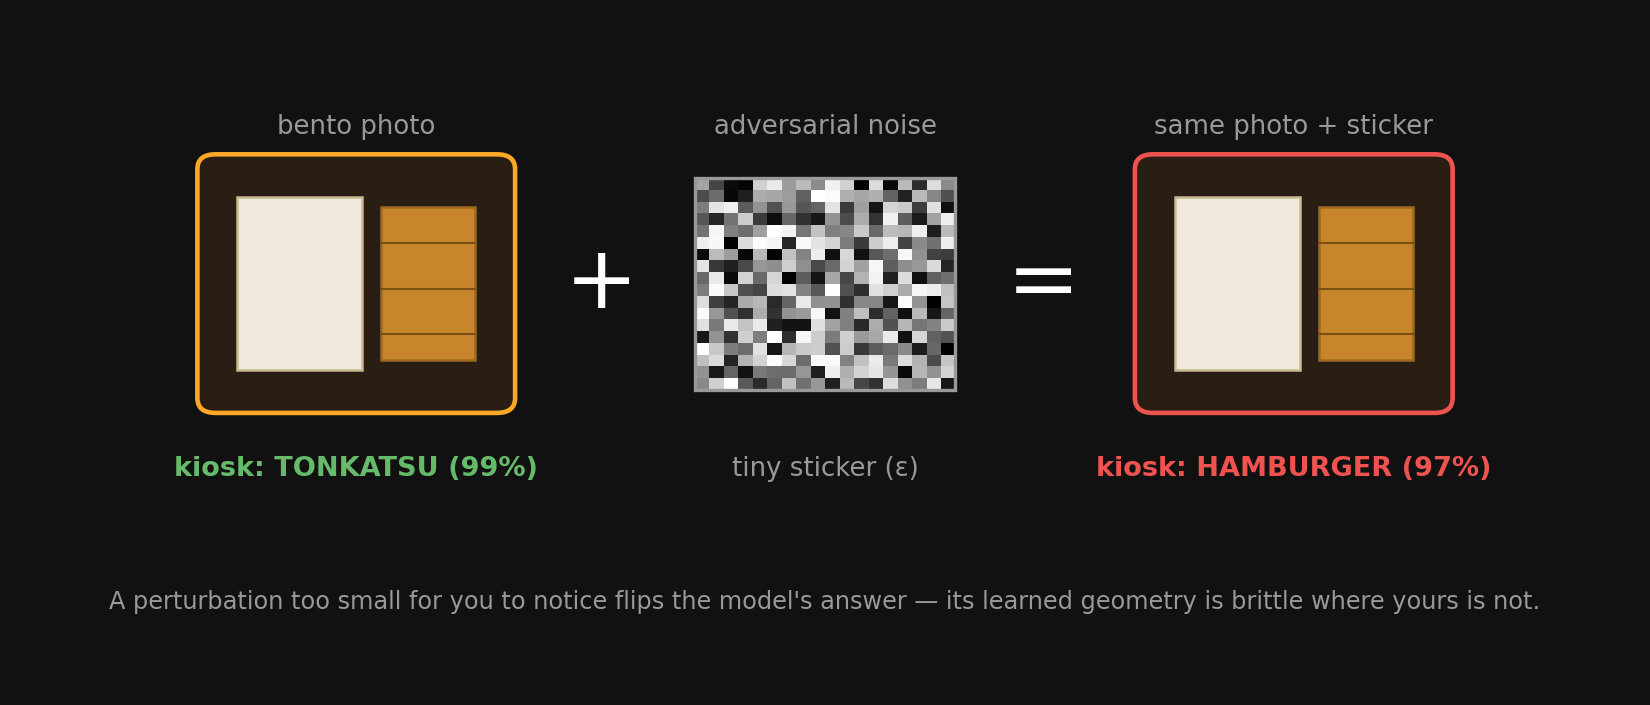
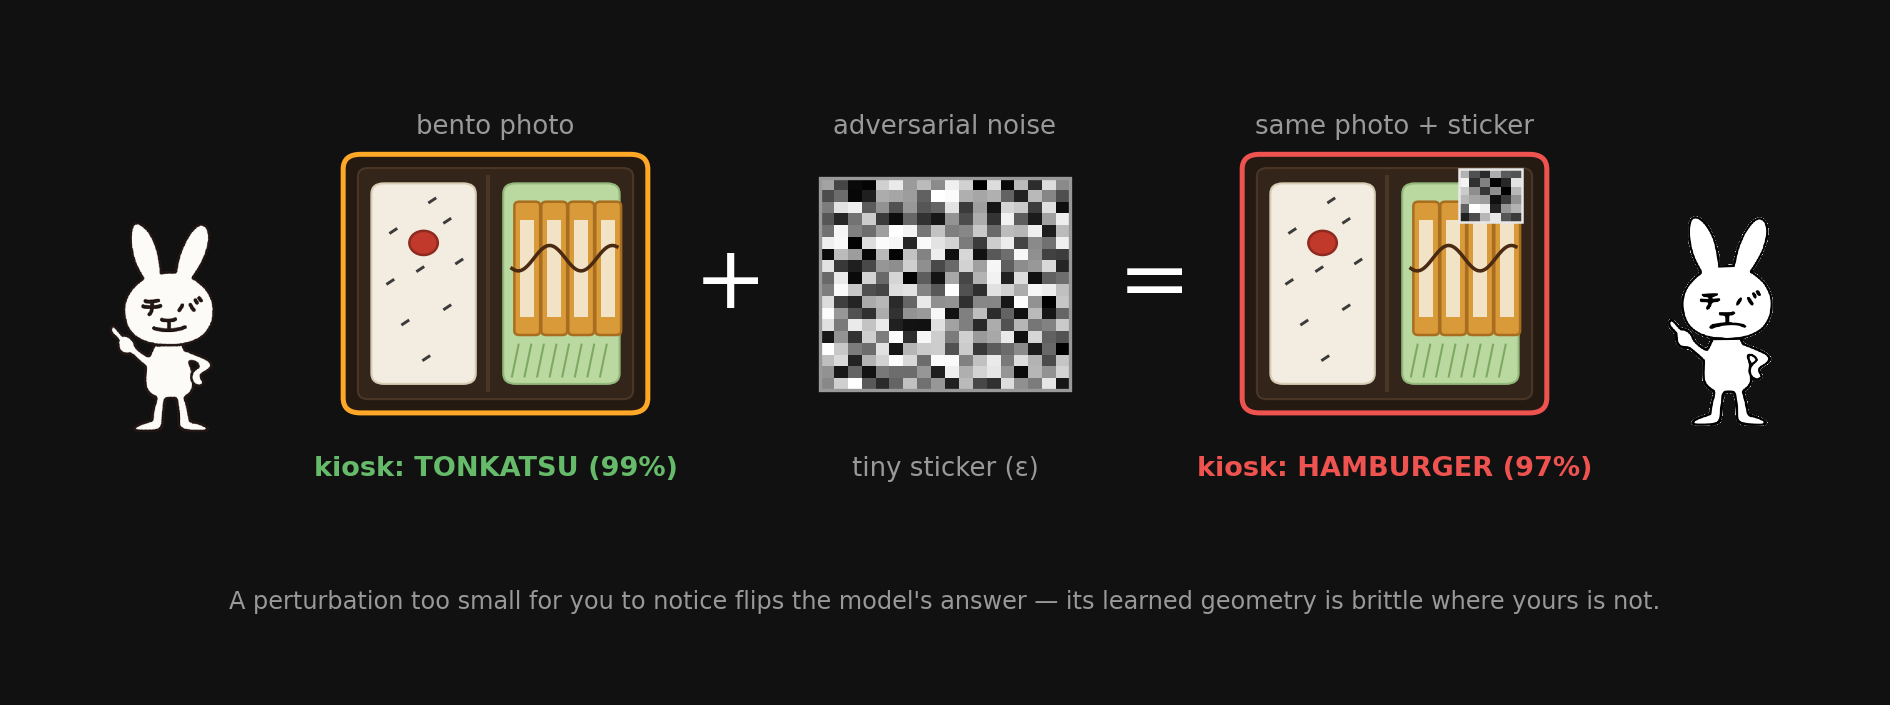
autosync beancupter 2026-07-16T21:30:02+09:00

diff --git a/course/week12_ethics_adversarial/make_figures.py b/course/week12_ethics_adversarial/make_figures.py
@@ -68,12 +68,13 @@ def fig_semester_map():
     nodes=[
         ("Tenenbaum 1999",        0.40,2.66, ACC, 0.56,2.66,"left","center", False,None),
         ("Tenenbaum & Xu 2000",   0.40,2.26, ACC, 0.56,2.26,"left","center", True,"presented"),
-        ("Tenenbaum et al. 2011", 1.85,2.62, GRN, 2.00,2.62,"left","center", False,None),
+        ("Tenenbaum et al. 2011", 1.85,2.62, GRN, 1.85,2.77,"center","bottom", False,None),
         ("Austerweil et al. 2015",1.05,2.90, GRN, 1.05,3.05,"center","bottom", False,None),
-        ("Baker et al. 2007",     2.30,2.18, ORA, 2.45,2.18,"left","center", False,None),
-        ("Daw et al. 2005",       2.30,1.80, ORA, 2.45,1.80,"left","center", False,None),
-        ("Abbott et al. 2012",    2.30,1.42, ORA, 2.45,1.42,"left","center", False,None),
-        ("Sanborn & Griffiths 2008",2.30,1.05, ORA, 2.45,1.05,"left","center", False,None),
+        ("Baker et al. 2007",     2.30,2.58, ORA, 2.45,2.58,"left","center", False,None),
+        ("Sanborn & Griffiths 2008",2.30,2.28, ORA, 2.45,2.28,"left","center", False,None),
+        ("Abbott et al. 2012",    2.30,2.04, ORA, 2.45,2.04,"left","center", False,None),
+        ("Vul et al. 2009",       2.30,1.55, ORA, 2.45,1.55,"left","center", False,None),
+        ("Daw et al. 2005",       2.30,1.15, ORA, 2.45,1.15,"left","center", False,None),
         ("Lake et al. 2017",      3.55,2.86, PUR, 3.68,2.86,"left","center", False,None),
         ("Caliskan et al. 2017",  3.55,2.50, PUR, 3.68,2.50,"left","center", False,None),
         ("Pereira et al. 2018",   3.55,0.55, PUR, 3.68,0.55,"left","center", False,None),
@@ -174,31 +175,81 @@ def fig_fairness_impossibility():
 
 # ---------------------------------------------------------------- Fig 4: adversarial example
 def _bento(ax,x0,y0,w,h,ec=ORA):
-    """A simple bento icon (rice + tonkatsu) inside a lacquer box."""
+    """A tonkatsu bento that reads as one: lacquer box, rice mound with sesame
+    + umeboshi on the left; shredded-cabbage bed with a fanned, breaded,
+    sauce-drizzled cutlet on the right (2026-07-16 remake, was two flat
+    rectangles)."""
+    from matplotlib.patches import Ellipse
+    # lacquer box + inner tray
     ax.add_patch(FancyBboxPatch((x0,y0),w,h,boxstyle="round,pad=0.02,rounding_size=0.14",
-                 fc="#2a1d14",ec=ec,lw=2.2,zorder=3))
-    # rice compartment (left)
-    ax.add_patch(Rectangle((x0+0.12*w,y0+0.16*h),0.40*w,0.68*h,fc="#efe9dc",
-                 ec="#cbb88f",lw=1.2,zorder=4))
-    # tonkatsu cutlet (right)
-    ax.add_patch(Rectangle((x0+0.58*w,y0+0.20*h),0.30*w,0.60*h,fc="#c8862c",
-                 ec="#9c6a20",lw=1.2,zorder=4))
-    for k in range(3):
-        yy=y0+0.30*h+k*0.18*h
-        ax.plot([x0+0.58*w,x0+0.88*w],[yy,yy],color="#7a5015",lw=1.0,zorder=5)
+                 fc="#241a12",ec=ec,lw=2.4,zorder=3))
+    ax.add_patch(FancyBboxPatch((x0+0.045*w,y0+0.05*h),0.91*w,0.90*h,
+                 boxstyle="round,pad=0.01,rounding_size=0.08",
+                 fc="#33251a",ec="#4a3626",lw=1.0,zorder=3.5))
+    ax.plot([x0+0.475*w]*2,[y0+0.08*h,y0+0.92*h],color="#4a3626",lw=2.0,zorder=4)
+    # rice mound (left) + sesame + umeboshi
+    ax.add_patch(FancyBboxPatch((x0+0.09*w,y0+0.11*h),0.34*w,0.78*h,
+                 boxstyle="round,pad=0.01,rounding_size=0.10",
+                 fc="#f2ede0",ec="#d8cdb4",lw=1.0,zorder=4))
+    for sx,sy in [(0.15,0.70),(0.24,0.55),(0.33,0.74),(0.19,0.34),(0.33,0.40),
+                  (0.26,0.20),(0.14,0.50),(0.37,0.58),(0.28,0.82)]:
+        ax.plot([x0+sx*w,x0+(sx+0.018)*w],[y0+sy*h,y0+(sy+0.014)*h],
+                color="#3b3b3b",lw=1.4,zorder=5)
+    ax.add_patch(Ellipse((x0+0.26*w,y0+0.66*h),0.095*w,0.095*h,
+                 fc="#c0392b",ec="#8e2a20",lw=1.2,zorder=5))
+    # cabbage bed (right)
+    ax.add_patch(FancyBboxPatch((x0+0.53*w,y0+0.11*h),0.38*w,0.78*h,
+                 boxstyle="round,pad=0.01,rounding_size=0.10",
+                 fc="#b9d9a0",ec="#93b87c",lw=1.0,zorder=4))
+    for k in range(8):
+        xx=x0+(0.555+0.042*k)*w
+        ax.plot([xx,xx+0.022*w],[y0+0.135*h,y0+0.26*h],color="#7fa963",lw=1.0,zorder=4.5)
+    # tonkatsu: four fanned slices, golden breading around a pale pork center
+    sw=0.082*w
+    for k in range(4):
+        sx=x0+(0.565+k*0.090)*w
+        ax.add_patch(FancyBboxPatch((sx,y0+0.30*h),sw,0.52*h,
+                     boxstyle="round,pad=0.005,rounding_size=0.04",
+                     fc="#d99a3a",ec="#a86d1f",lw=1.2,zorder=5))
+        ax.add_patch(Rectangle((sx+0.22*sw,y0+0.37*h),0.56*sw,0.38*h,
+                     fc="#f3e3c6",ec="none",zorder=5.5))
+    # sauce drizzle across the slices
+    xs=np.linspace(x0+0.555*w,x0+0.905*w,60)
+    ax.plot(xs,y0+0.60*h+0.05*h*np.sin(30*(xs-x0)/w),color="#4a2a12",lw=1.7,zorder=6)
+
+def _mascot(path):
+    """Load a Chibany PNG and make the WHITE SURROUND transparent (flood fill
+    from the corners) while keeping the white body — for placement on the
+    dark slide background."""
+    from PIL import Image, ImageDraw
+    im=Image.open(path).convert("RGBA")
+    for corner in [(0,0),(im.width-1,0),(0,im.height-1),(im.width-1,im.height-1)]:
+        try: ImageDraw.floodfill(im,corner,(0,0,0,0),thresh=60)
+        except Exception: pass
+    return np.asarray(im)
 
 def fig_adversarial():
-    """bento + tiny sticker (epsilon) -> the kiosk flips tonkatsu -> hamburger."""
+    """Chibany's bento + tiny sticker (epsilon) -> the kiosk flips tonkatsu ->
+    hamburger. Chibany presents the photo on the left; devastated on the right
+    (canon: tonkatsu is Chibany's favorite; hamburger a distant second)."""
+    from matplotlib.offsetbox import OffsetImage, AnnotationBbox
     rng=np.random.default_rng(0)
-    fig,ax=blank_axes((11,4.7),xlim=(0,11),ylim=(0,6.1))
+    fig,ax=blank_axes((12.6,4.7),xlim=(-1.5,12.5),ylim=(0,6.1))
+    # Chibany, proud owner of the bento photo (left) — and crushed by the verdict (right)
+    chib=_mascot("images/chibanyplain.png"); sad=_mascot("images/chibanysad.png")
+    ax.add_artist(AnnotationBbox(OffsetImage(chib,zoom=0.30),(-0.72,3.35),frameon=False,zorder=6))
+    ax.add_artist(AnnotationBbox(OffsetImage(sad,zoom=0.30),(11.72,3.35),frameon=False,zorder=6))
     # panel 1: the bento photo
     _bento(ax,0.7,2.5,2.4,2.4,ec=ORA)
     # panel 2: the adversarial noise (deterministic speckle)
     n=rng.random((18,18))
     ax.imshow(n,extent=[4.5,6.5,2.7,4.7],cmap="gray",zorder=3,aspect="auto")
     ax.add_patch(Rectangle((4.5,2.7),2.0,2.0,fill=False,ec=DIM,lw=1.6,zorder=4))
-    # panel 3: the SAME bento, now misclassified
+    # panel 3: the SAME bento with the tiny sticker applied, now misclassified
     _bento(ax,7.9,2.5,2.4,2.4,ec=RED)
+    st=rng.random((6,6))
+    ax.imshow(st,extent=[9.62,10.12,4.28,4.78],cmap="gray",zorder=7,aspect="auto")
+    ax.add_patch(Rectangle((9.62,4.28),0.5,0.5,fill=False,ec="#e8e8e8",lw=1.2,zorder=8))
     # connectors — own clear band in the gaps, never over a box
     ax.text(3.78,3.7,"+",fontsize=42,color=WHITE,ha="center",va="center")
     ax.text(7.18,3.7,"=",fontsize=42,color=WHITE,ha="center",va="center")
